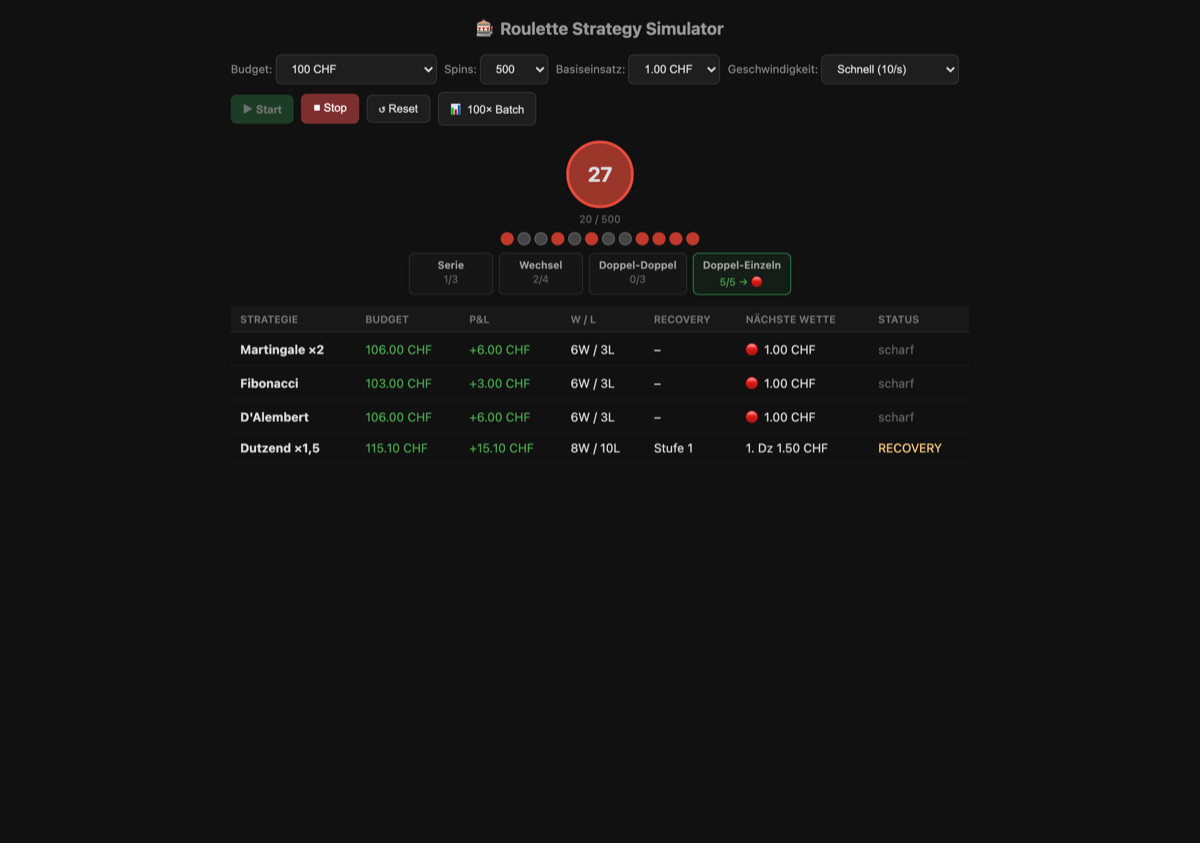
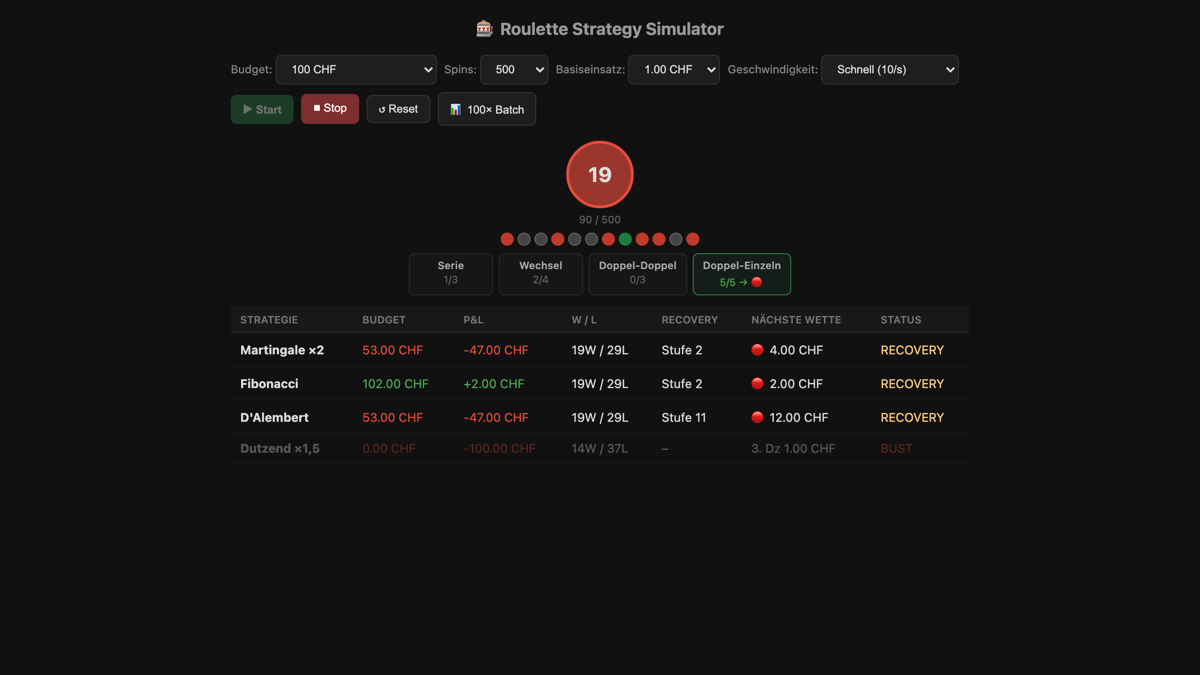
Layout & Copy: Reihenfolge, Filmtracker ohne Live-Link, besseres Roulette-Bild, Header/Footer angepasst

diff --git a/index.html b/index.html
@@ -88,7 +88,7 @@
 <body>
 <header>
   <div class="wrap nav">
-    <div class="brand">Lorenz<span class="dot">.</span></div>
+    <div class="brand"><span class="dot">●</span></div>
     <div class="nav-right">
       <div class="lang" role="group" aria-label="Sprache / Language">
         <button id="de" class="on" onclick="setLang('de')">DE</button>
@@ -107,8 +107,8 @@
       <span data-en>I build AI products you can actually click.</span>
     </h1>
     <p class="lede">
-      <span data-de>Von Multi-Agenten-Systemen über Web-Apps bis zu Desktop-Software — echte, laufende Projekte statt Folien. Unten kannst du fast alles live ausprobieren.</span>
-      <span data-en>From multi-agent systems to web apps and desktop software — real, running projects instead of slides. You can try most of them live below.</span>
+      <span data-de>Von Multi-Agenten-Systemen über Web-Apps bis zu Desktop-Software — Projekte, die wirklich laufen. Unten kannst du fast alles live ausprobieren.</span>
+      <span data-en>From multi-agent systems to web apps and desktop software — projects that actually run. You can try most of them live below.</span>
     </p>
     <div class="hero-cta">
       <a class="cta primary" href="#projekte"><span data-de>Projekte ansehen</span><span data-en>See the projects</span></a>
@@ -152,7 +152,7 @@
   <div class="wrap foot-row">
     <div>
       <div style="font-weight:700;color:var(--text)">Lorenz</div>
-      <div style="font-size:.9rem;margin-top:4px"><span data-de>Auf Jobsuche · offen für Anfragen</span><span data-en>Open to opportunities</span></div>
+      <div style="font-size:1.15rem;font-weight:600;color:var(--text);margin-top:6px"><span data-de>Offen für Anfragen — brauchst du etwas gebaut?</span><span data-en>Open to inquiries — need something built?</span></div>
     </div>
     <div style="font-size:.9rem">
       <a href="https://github.com/usr1243" target="_blank" rel="noopener">GitHub</a> ·
@@ -180,6 +180,14 @@ const P = [
     en:"<b>5 self-built AI agents</b>, each explained in detail — including multi-layer orchestration where one agent coordinates sub-agents in parallel (coaches, deep-debug, application assistant, prompt improver, skill checker)."
   },
   {
+    key:"meddoc", badge:{de:"Kundenprojekt · Case-Study",en:"Client project · Case study"},
+    title:"MedDoc Analyzer", img:"assets/meddoc.png",
+    tags:["Electron","React","Lokale KI (Ollama)","OCR"],
+    live:null, code:null,
+    de:"Desktop-App für eine <b>Schweizer Arztpraxis-Kette</b>: Eingehende Arztberichte werden per lokaler KI (Ollama, komplett offline — keine Cloud) automatisch analysiert, kategorisiert und ablagebereit benannt. Spart pro Praxisassistenz <b>ca. 2,5–3,5 Stunden pro Tag</b>. Kein Code öffentlich (Kundenprojekt).",
+    en:"A desktop app for a <b>Swiss medical practice group</b>: incoming doctor's reports are analysed, categorised and named for filing by a local AI (Ollama, fully offline — no cloud). Saves each assistant <b>~2.5–3.5 hours per day</b>. Code not public (client project)."
+  },
+  {
     key:"passerelle", badge:{de:"Live",en:"Live"},
     title:"Passerelle Lerntool", img:"assets/passerelle.png",
     tags:["PWA","Cloudflare","Groq KI","Spaced Repetition"],
@@ -196,12 +204,20 @@ const P = [
     en:"A <b>gamified quest app</b> that turns 500+ mini-challenges into real-life tasks — with XP, levels, streaks and a leaderboard. Pick a language and click straight in."
   },
   {
-    key:"filmtracker", badge:{de:"Live",en:"Live"},
+    key:"filmtracker", badge:{de:"Code",en:"Code"},
     title:"Filmtracker", img:"assets/filmtracker.png",
     tags:["Cloudflare Worker","KV","TMDb API"],
-    live:"https://filmtrackerbambo.questside.workers.dev", code:"https://github.com/usr1243/filmtracker",
-    de:"Persönliche Film-Datenbank statt Excel-Liste: <b>639 Filme</b> bewerten, filtern, durchsuchen. Beim Import holt die App automatisch Poster, Genre und Beschreibung. Kein Login.",
-    en:"A personal movie database instead of a spreadsheet: rate, filter and search <b>639 films</b>. On import the app auto-fetches poster, genre and description. No login."
+    live:null, code:"https://github.com/usr1243/filmtracker",
+    de:"Persönliche Film-Datenbank statt Excel-Liste: Filme bewerten, filtern, durchsuchen. Beim Import holt die App automatisch Poster, Genre und Beschreibung. Kein Login. Die Live-Version zeigt meine echte, private Filmliste — deshalb hier nur der Code.",
+    en:"A personal movie database instead of a spreadsheet: rate, filter and search films. On import the app auto-fetches poster, genre and description. No login. The live version shows my real, private movie list — so only the code is linked here."
+  },
+  {
+    key:"moto", badge:{de:"Code",en:"Code"},
+    title:"Moto Weather Route", img:"assets/motoweather.png",
+    tags:["Vanilla JS","Leaflet","2 APIs"],
+    live:null, code:"https://github.com/usr1243/motoweather",
+    de:"Wetter-Tool für Motorradfahrer: prüft das Wetter <b>entlang der ganzen Route</b> zur Fahrtzeit, nicht nur am Ziel. Kombiniert Routing (OpenRouteService) und Wetter (Open-Meteo) auf einer Karte.",
+    en:"A weather tool for motorcyclists: checks the weather <b>along the whole route</b> at ride time, not just at the destination. Combines routing (OpenRouteService) and weather (Open-Meteo) on a map."
   },
   {
     key:"budget", badge:{de:"Live",en:"Live"},
@@ -212,28 +228,12 @@ const P = [
     en:"A budget tracker for Switzerland with a twist: <b>expenses record themselves</b>. An iOS Shortcut fires on every Apple Pay payment and books amount and merchant automatically — no manual entry."
   },
   {
-    key:"meddoc", badge:{de:"Kundenprojekt · Case-Study",en:"Client project · Case study"},
-    title:"MedDoc Analyzer", img:"assets/meddoc.png",
-    tags:["Electron","React","Lokale KI (Ollama)","OCR"],
-    live:null, code:null,
-    de:"Desktop-App für eine <b>Schweizer Arztpraxis-Kette</b>: Eingehende Arztberichte werden per lokaler KI (Ollama, komplett offline — keine Cloud) automatisch analysiert, kategorisiert und ablagebereit benannt. Spart pro Praxisassistenz <b>ca. 2,5–3,5 Stunden pro Tag</b>. Kein Code öffentlich (Kundenprojekt).",
-    en:"A desktop app for a <b>Swiss medical practice group</b>: incoming doctor's reports are analysed, categorised and named for filing by a local AI (Ollama, fully offline — no cloud). Saves each assistant <b>~2.5–3.5 hours per day</b>. Code not public (client project)."
-  },
-  {
     key:"roulette", badge:{de:"Spaß-Projekt",en:"Fun project"},
     title:"Roulette Strategy Simulator", img:"assets/roulette.png",
     tags:["Vanilla JS","Wahrscheinlichkeit"],
     live:null, code:"https://github.com/usr1243/roulette-simulator",
     de:"Ein kleines Wochenend-Projekt über <b>Wahrscheinlichkeit</b>: Der Simulator lässt Wettsysteme wie Martingale und Fibonacci über tausende simulierte Spins gegeneinander laufen — und zeigt sichtbar, warum keines den Hausvorteil schlägt.",
     en:"A small weekend project about <b>probability</b>: the simulator runs betting systems like Martingale and Fibonacci against thousands of simulated spins — visibly showing why none beats the house edge."
-  },
-  {
-    key:"moto", badge:{de:"Code",en:"Code"},
-    title:"Moto Weather Route", img:"assets/motoweather.png",
-    tags:["Vanilla JS","Leaflet","2 APIs"],
-    live:null, code:"https://github.com/usr1243/motoweather",
-    de:"Wetter-Tool für Motorradfahrer: prüft das Wetter <b>entlang der ganzen Route</b> zur Fahrtzeit, nicht nur am Ziel. Kombiniert Routing (OpenRouteService) und Wetter (Open-Meteo) auf einer Karte.",
-    en:"A weather tool for motorcyclists: checks the weather <b>along the whole route</b> at ride time, not just at the destination. Combines routing (OpenRouteService) and weather (Open-Meteo) on a map."
   }
 ];
 